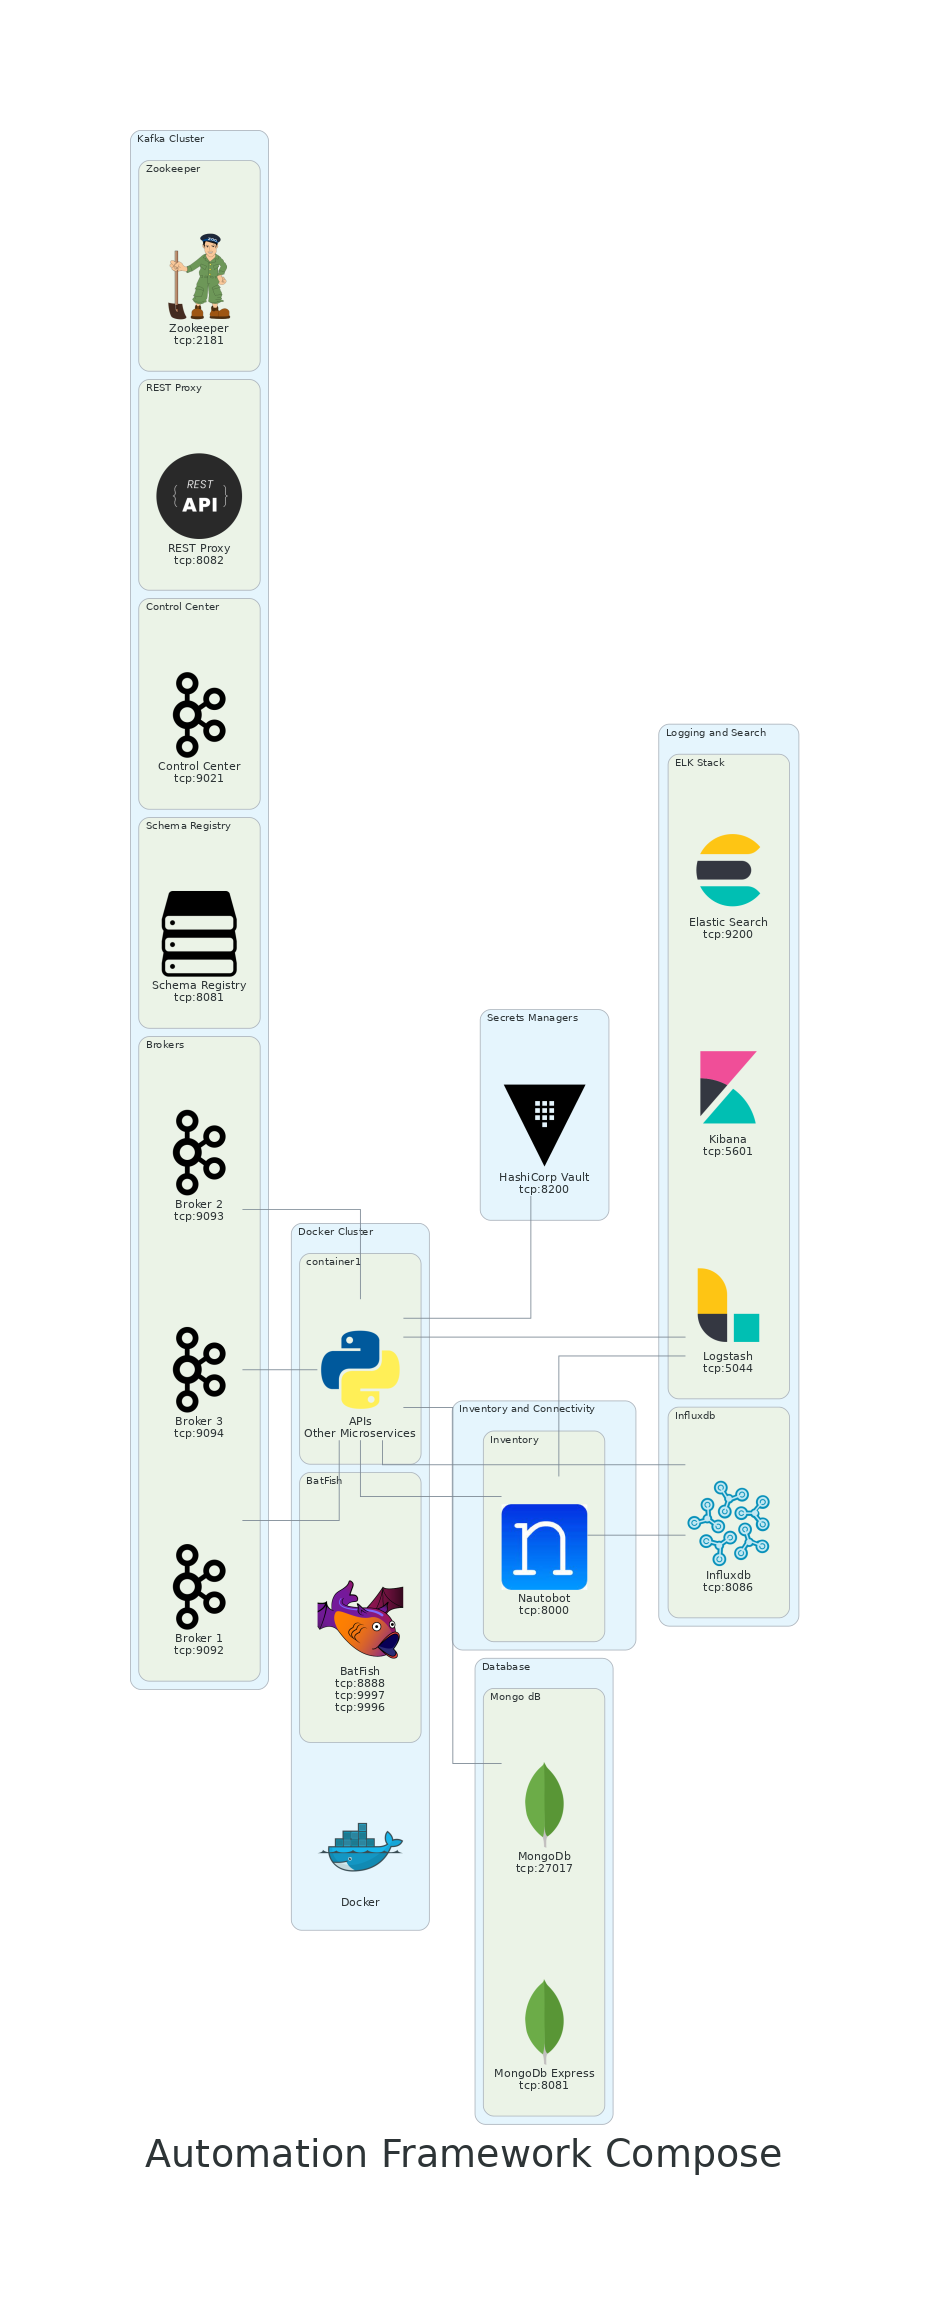
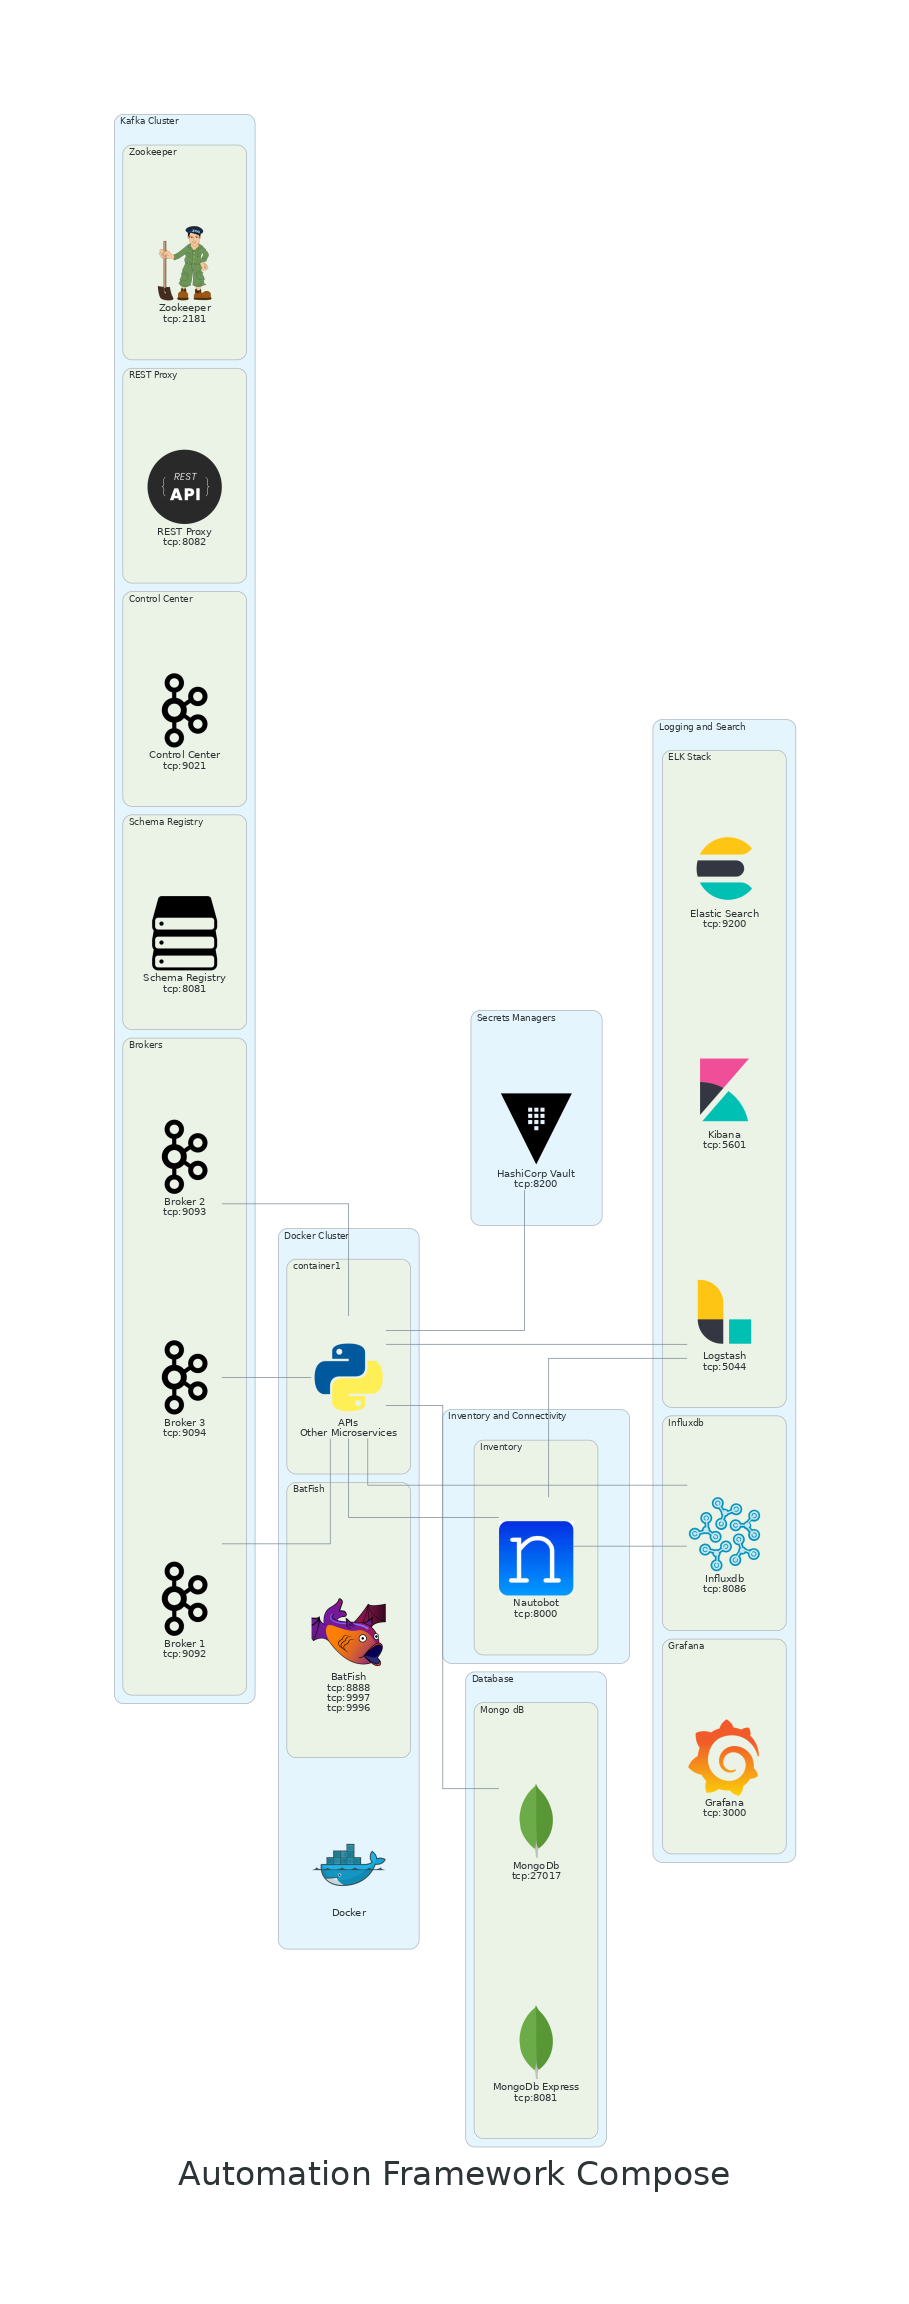
Add Grafana

diff --git a/diagrams/automation_framework_compose.py b/diagrams/automation_framework_compose.py
@@ -11,6 +11,7 @@ from diagrams.programming.language import Python
 from diagrams.generic.storage import Storage
 from diagrams.onprem.database import Mongodb
 from diagrams.onprem.database import Influxdb
+from diagrams.onprem.monitoring import Grafana
 
 
 def main():
@@ -71,6 +72,9 @@ def main():
 
             with Cluster('Influxdb'):
                 infulxdb = Influxdb('Influxdb\ntcp:8086')
+
+            with Cluster('Grafana'):
+                grafana = Grafana('Grafana\ntcp:3000')
 
         with Cluster('Inventory and Connectivity'):
             with Cluster('Inventory'):

diff --git a/README.md b/README.md
@@ -33,6 +33,12 @@ sysctl -w vm.max_map_count=262144
 docker exec -it <container-name> nautobot-server createsuperuser
 ```
 
+### Graphana iformation
+
+* Default username admin default password admin
+
+* It will ask you to change the password on first login
+
 ### Information URLs
 
 * [vm.max_map_count](https://www.elastic.co/guide/en/elasticsearch/reference/5.0/vm-max-map-count.html#vm-max-map-count)
@@ -68,5 +74,6 @@ docker exec -it <container-name> nautobot-server createsuperuser
 | MongoDB | Document dB |
 | Batfish | Modeling |
 | Influxdb | Series dB |
+| Grafana | Pretty Graphs |
 
 ![Automation Framework Compose](diagrams/automation_framework_compose.png)
